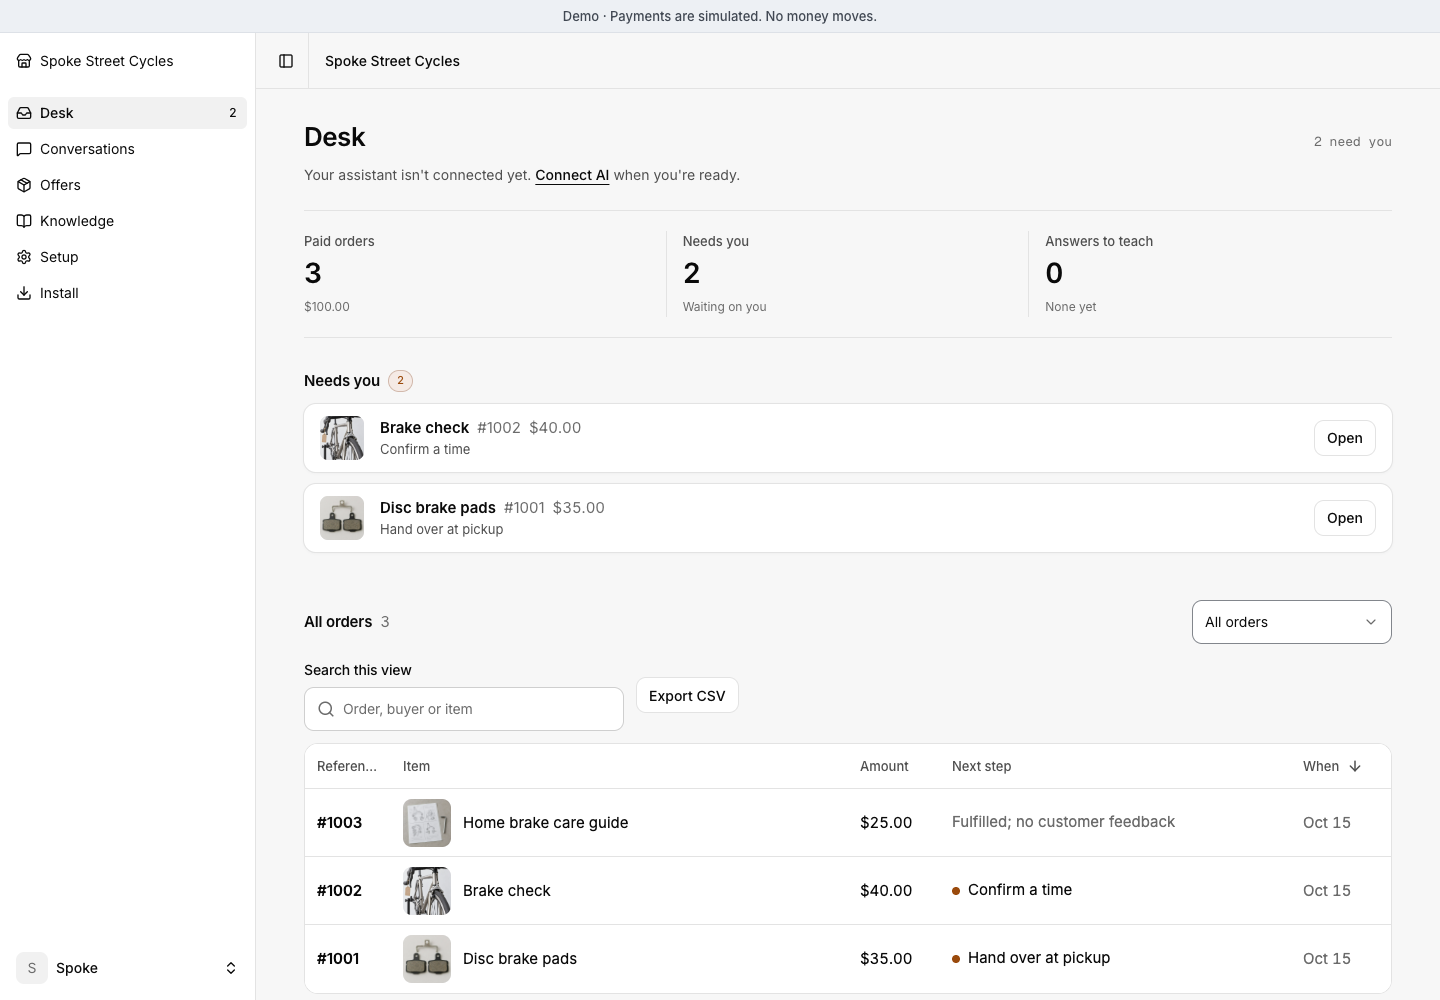
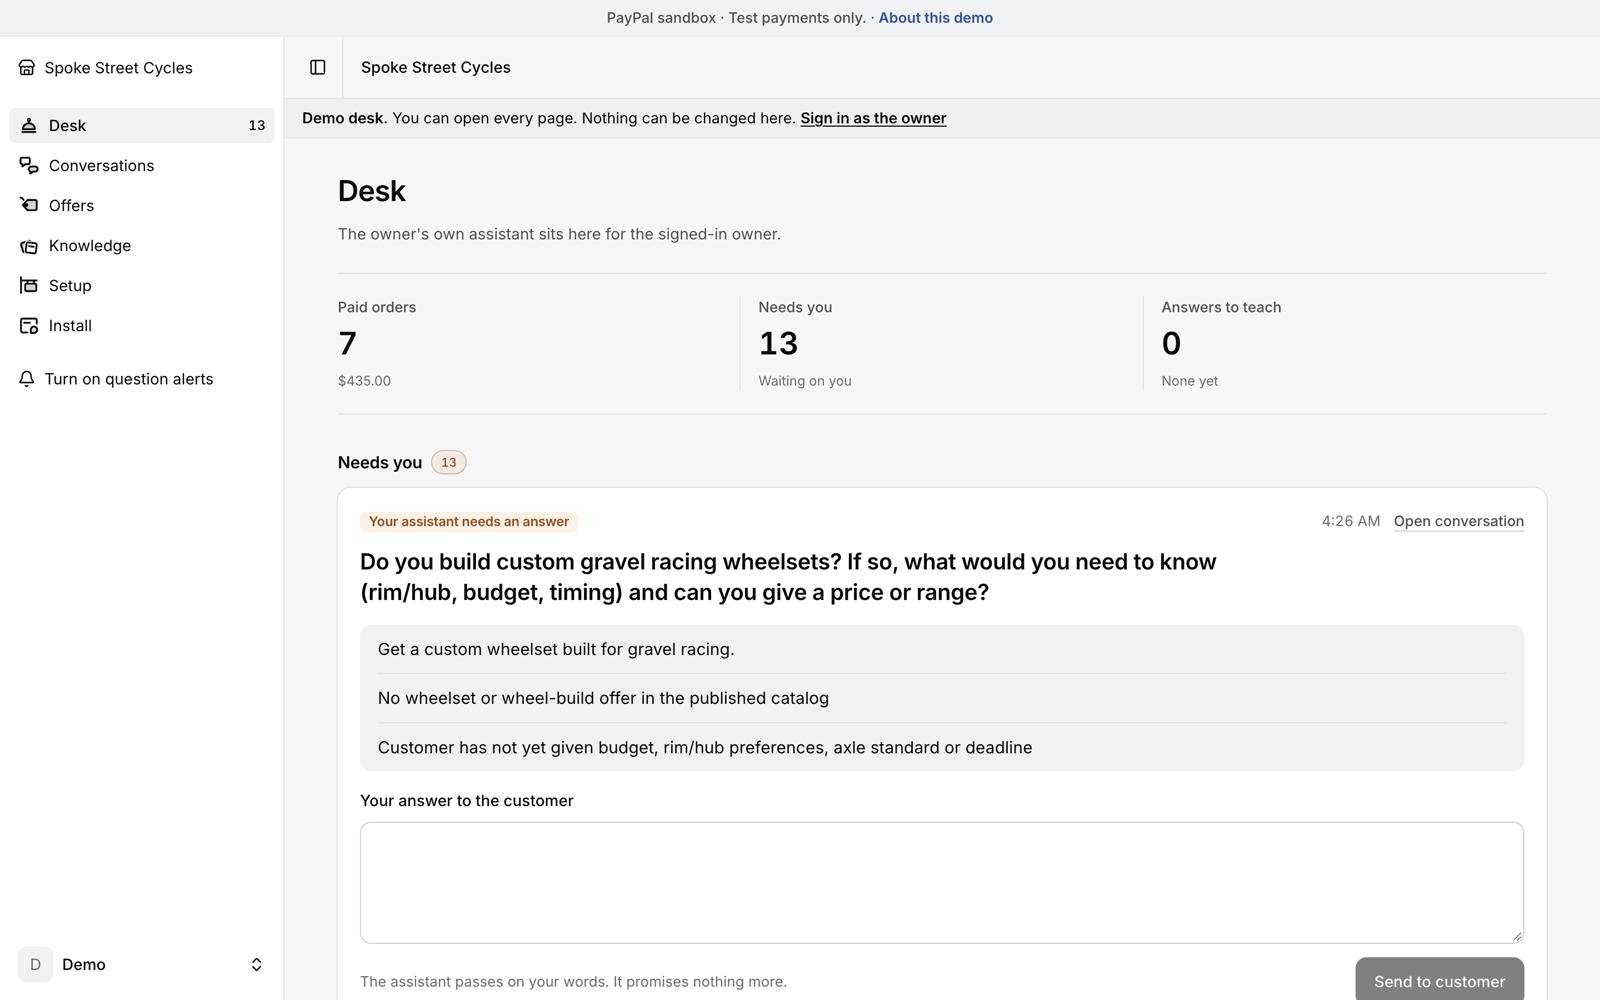
docs(readme): Open with a two-minute start on the new address
The README and test guide now point at sellerdesk.dev and start with three
steps anyone can do without a login, including the read-only owner's desk.
The desk pictures are current, the home page has its share picture, and the
connector is described as read-only.

Files changed:
- README.md, docs/how-to-test.md, docs/readiness.md
- docs/media/seller-desk.png, public/about/desk.webp, public/about/share.png

diff --git a/README.md b/README.md
@@ -4,9 +4,19 @@
 
 It answers customers from your catalog, asks you only what it can't know, and closes the sale with a verified PayPal payment.
 
-[Demo](https://seller-desk.oguz-077.workers.dev/buy) · [How it learns](#it-learns-from-the-answers-you-give) · [Install](#deploy) · [Guide](docs/guide.md)
+[Live demo](https://sellerdesk.dev) · [Try the shop](https://sellerdesk.dev/buy) · [How to test it](docs/how-to-test.md) · [How it learns](#it-learns-from-the-answers-you-give) · [Install](#deploy) · [Guide](docs/guide.md)
 
 ![The current catalog, quote, service order and seller desk in the original exploded-view animation](docs/media/hero.gif)
+
+## Try it in two minutes
+
+No install and no login. The demo shop is fictional and payments run in the PayPal sandbox.
+
+1. **Ask the shop.** Open [the shop](https://sellerdesk.dev/buy) and ask for something, such as "Can you replace my brake cable by Tuesday?"
+2. **Pay with PayPal.** Take the quote and pay with a PayPal sandbox buyer account. The server checks the payment with PayPal before it makes the order.
+3. **Look around the owner's desk.** On [the home page](https://sellerdesk.dev) press **Look around the owner's desk**. Every page opens and nothing can be changed. To answer a customer or send a quote, [sign in as the owner](https://sellerdesk.dev/owner/login).
+
+[The 15-minute checklist](docs/how-to-test.md) lists each check and its expected result.
 
 ## See it work
 
@@ -35,7 +45,7 @@ visible in one desk. The desk assistant can read order records when you ask what
 
 <picture>
   <source media="(max-width: 600px)" srcset="docs/media/seller-desk-mobile.png">
-  <img alt="The current seller desk showing orders and work that need attention" src="docs/media/seller-desk.png">
+  <img alt="The seller desk: paid orders, what needs the owner, and a customer question waiting for an answer" src="docs/media/seller-desk.png">
 </picture>
 
 **“Did my payment go through?”** The assistant checks the payment record. It can recover a
@@ -127,7 +137,8 @@ The learning review above is a separate, owner-triggered model call with a struc
 
 **Agentic commerce, with limits.** Each installation is also a connector (MCP) and an Agent
 Skill for the owner's own AI apps. Claude, ChatGPT, Codex or Cursor can read who is waiting,
-orders and offers, and draft answers. They cannot message customers, change prices or move money.
+conversations, orders and offers. The connector is read-only: they cannot message customers,
+change prices or move money.
 
 ![Nothing is released until PayPal confirms it: the server retrieves the order, checks it, captures once; recovery job and verified webhook as backups](docs/media/diagram-paypal.png)
 

diff --git a/docs/how-to-test.md b/docs/how-to-test.md
@@ -4,9 +4,12 @@
 
 No install and no AI key. The assistant runs on the demo's own server.
 
-- The shop: <https://seller-desk.oguz-077.workers.dev/buy>
-- The owner's desk: <https://seller-desk.oguz-077.workers.dev/owner/login>, login in the
-  Devpost testing instructions
+- Start here: <https://sellerdesk.dev>
+- The shop: <https://sellerdesk.dev/buy>
+- The owner's desk, read-only, no login: press **Look around the owner's desk** on
+  <https://sellerdesk.dev>
+- The owner's desk, to answer and send quotes: <https://sellerdesk.dev/owner/login>, login in
+  the Devpost testing instructions
 - Payments go through the PayPal sandbox. No real money moves. Use the sandbox buyer
   login in the Devpost testing instructions.
 

diff --git a/docs/readiness.md b/docs/readiness.md
@@ -4,7 +4,7 @@ Current as of October 19, 2026 (America/Edmonton). The implementation candidate 
 
 ## Existing hosted demo
 
-[Demo](https://seller-desk.oguz-077.workers.dev/buy). PayPal sandbox only.
+[Demo](https://sellerdesk.dev/buy). PayPal sandbox only.
 
 The existing Worker remains on version `9481e2a4-44a4-44eb-a568-b98e15caa3f1`. The October 19 browser run completed a $25 USD download purchase through the actual app and PayPal sandbox buyer UI. Independent PayPal and native-D1 reads agree on one completed capture, one paid attempt and one order. Both original webhook events were processed. Reload preserves the paid order.
 
